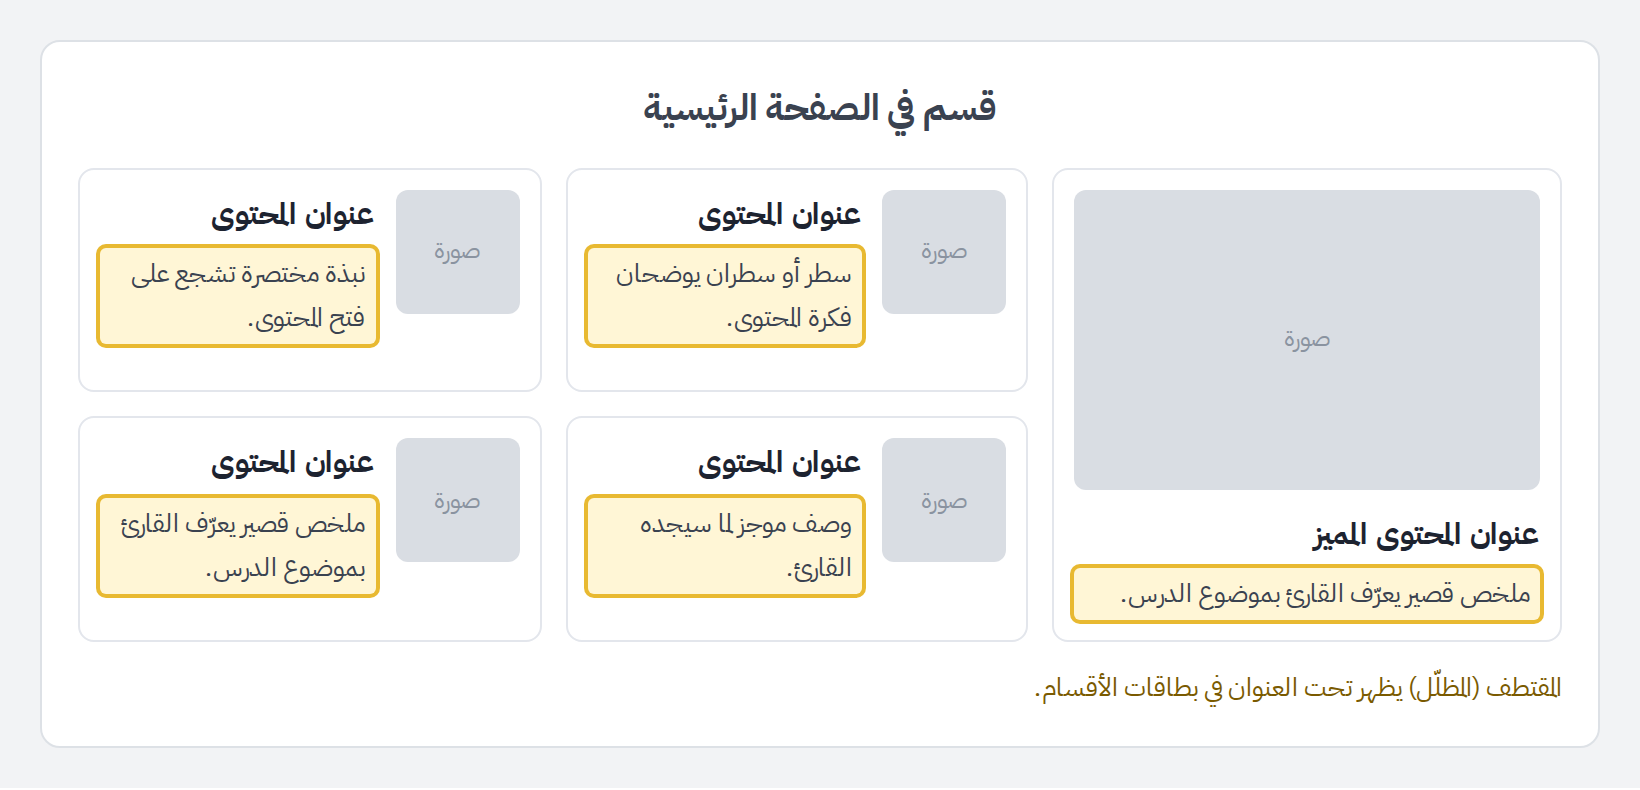
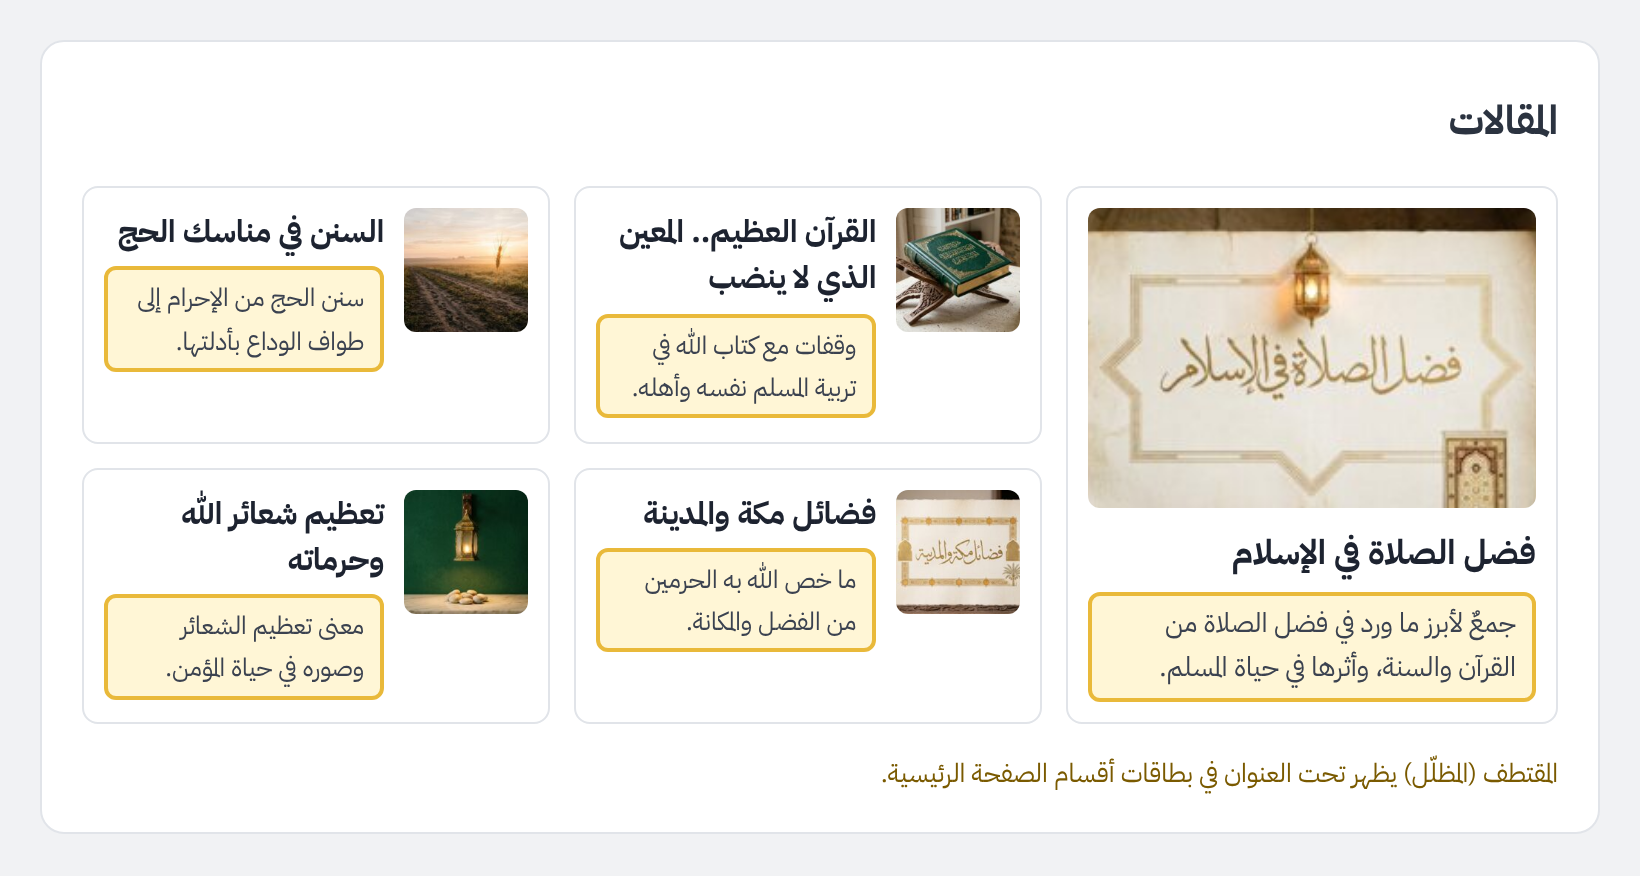
المقتطف guide: realistic examples with real titles and sections
The home, search and list examples now show real content instead of
placeholder explanations: the المقالات section with «فضل الصلاة في الإسلام»
carrying the excerpt typed in the first photo, a search for «الصلاة», and
the الدروس page, with matching thumbnails from the site. The images are
rendered from _tools/excerpt-mock/mock.html (node render.js).

Claude-Session: https://claude.ai/code/session_01Y7SfLjzbY1tcRcLs3jeLK1

diff --git a/_tools/excerpt-mock/mock.html b/_tools/excerpt-mock/mock.html
@@ -1,0 +1,76 @@
+<!DOCTYPE html>
+<html lang="ar" dir="rtl"><head><meta charset="UTF-8">
+<!-- Source of docs/img/excerpt-{home,search,list}.png: render.js screenshots each .panel at 2x -->
+<style>
+@font-face{font-family:Plex;src:url(../../fonts/IBMPlexSansArabic-Regular.ttf);font-weight:400}
+@font-face{font-family:Plex;src:url(../../fonts/IBMPlexSansArabic-SemiBold.ttf);font-weight:600}
+@font-face{font-family:Plex;src:url(../../fonts/IBMPlexSansArabic-Bold.ttf);font-weight:700}
+body{margin:0;background:#f1f2f4;font:15px/1.7 Plex,sans-serif;color:#1d2330}
+.panel{width:820px;box-sizing:border-box;padding:20px}
+.frame{background:#fff;border:1px solid #e1e4e9;border-radius:12px;padding:22px 20px 18px}
+h2{margin:0 0 16px;font-size:20px;font-weight:700;color:#2b3340}
+.home h2{text-align:right}
+.ex{background:#fff6d6;border:2px solid #e9b93a;border-radius:6px;padding:3px 8px;margin-top:6px;font-size:13.5px;color:#3b4250}
+mark{background:#ffd966;color:inherit;padding:0 2px;border-radius:2px}
+.note{margin-top:14px;font-size:13px;color:#7a5a00}
+img{display:block;object-fit:cover;border-radius:6px;background:#d9dce2}
+h3{margin:0;font-size:15.5px;font-weight:700;line-height:1.5}
+.grid{display:grid;grid-template-columns:1.05fr 1fr 1fr;grid-template-rows:auto auto;gap:12px}
+.feat{grid-row:1/3;border:1px solid #e1e4e9;border-radius:8px;padding:10px}
+.feat img{width:100%;height:150px;margin-bottom:10px}
+.feat h3{font-size:17px}
+.sm{border:1px solid #e1e4e9;border-radius:8px;padding:10px;display:flex;gap:10px;align-items:flex-start}
+.sm img{width:62px;height:62px;flex:none}
+.sm .ex{font-size:12.5px}
+.search{display:grid;grid-template-columns:1fr 190px;gap:18px}
+.res{padding:10px 0 12px;border-bottom:1px solid #eceef2}
+.tag{display:inline-block;margin-top:6px;padding:0 8px;border-radius:4px;background:#e8ebf0;font-size:12px;color:#4b5363}
+.filter{border:1px solid #e1e4e9;border-radius:8px;padding:12px 14px;font-size:13.5px;align-self:start}
+.filter b{display:block;margin-bottom:6px;font-size:15px}
+.filter div{margin:3px 0}
+.row{border:1px solid #e1e4e9;border-radius:8px;padding:10px;display:flex;gap:12px;margin-bottom:10px;align-items:flex-start}
+.row img{width:120px;height:68px;flex:none}
+.meta{font-size:12px;color:#6b7383;margin-top:4px}
+</style></head><body>
+
+<div class="panel" id="home"><div class="frame home">
+<h2>المقالات</h2>
+<div class="grid">
+ <div class="feat"><img src="../../assets/62d21933a1-Arabic_calligraphy_______________202607010927-300x167.jpeg">
+  <h3>فضل الصلاة في الإسلام</h3>
+  <div class="ex">جمعٌ لأبرز ما ورد في فضل الصلاة من القرآن والسنة، وأثرها في حياة المسلم.</div></div>
+ <div class="sm"><img src="../../assets/2261298579-A_high-quality_close-up_of_a_202607020937-300x167.jpeg">
+  <div><h3>القرآن العظيم.. المعين الذي لا ينضب</h3><div class="ex">وقفات مع كتاب الله في تربية المسلم نفسه وأهله.</div></div></div>
+ <div class="sm"><img src="../../assets/70924bbf94-Path_leading_to_grain_stalk_202607081038-300x167.jpeg">
+  <div><h3>السنن في مناسك الحج</h3><div class="ex">سنن الحج من الإحرام إلى طواف الوداع بأدلتها.</div></div></div>
+ <div class="sm"><img src="../../assets/b796a821a4-Arabic_calligraphy_spelling______202607010936-300x167.jpeg">
+  <div><h3>فضائل مكة والمدينة</h3><div class="ex">ما خص الله به الحرمين من الفضل والمكانة.</div></div></div>
+ <div class="sm"><img src="../../assets/5ab71c0531-Lantern_casting_light_on_stones_202607051051-300x167.jpeg">
+  <div><h3>تعظيم شعائر الله وحرماته</h3><div class="ex">معنى تعظيم الشعائر وصوره في حياة المؤمن.</div></div></div>
+</div>
+<div class="note">المقتطف (المظلّل) يظهر تحت العنوان في بطاقات أقسام الصفحة الرئيسية.</div>
+</div></div>
+
+<div class="panel" id="search"><div class="frame">
+<h2>نتائج البحث عن: الصلاة</h2>
+<div class="search"><div>
+ <div class="res"><h3>فضل الصلاة في الإسلام</h3><div class="ex">جمعٌ لأبرز ما ورد في فضل <mark>الصلاة</mark> من القرآن والسنة، وأثرها في حياة المسلم.</div><span class="tag">مقالة</span></div>
+ <div class="res"><h3>حُكم الصلاة.. وعِظَم شأنها في دين الإسلام</h3><div class="ex">حكم <mark>الصلاة</mark> وتاركها، ومنزلتها بين أركان الإسلام.</div><span class="tag">مقالة</span></div>
+ <div class="res"><h3>أركان العبادة</h3><div class="ex">المحبة والخوف والرجاء، وكيف تجتمع في <mark>الصلاة</mark> وسائر العبادات.</div><span class="tag">درس</span></div>
+</div>
+<div class="filter"><b>نوع المحتوى</b><div>☐ المقالات</div><div>☐ الدروس</div><div>☐ أسئلة وأجوبة</div><div>☐ الخطب</div><div>☐ الفوائد</div></div>
+</div>
+<div class="note">المقتطف (المظلّل) يظهر تحت عنوان كل نتيجة، مع إبراز كلمة البحث.</div>
+</div></div>
+
+<div class="panel" id="list"><div class="frame">
+<h2>الدروس</h2>
+<div class="row"><img src="../../assets/8826f7dcf0-Crescent_moon_over_calm_horizon_202607051421-300x167.jpeg">
+ <div><h3>نزول القرآن</h3><div class="ex">كيف نزل القرآن منجّمًا على النبي ﷺ، والحكمة من نزوله مفرّقًا.</div></div></div>
+<div class="row"><img src="../../assets/3ccfbdab82-Serene_landscape_with_glowing_lamp_202607071449-300x167.jpeg">
+ <div><h3>أسباب انشراح الصدر</h3><div class="ex">عشرة أسباب من الكتاب والسنة يجد بها المسلم راحة القلب وطمأنينته.</div></div></div>
+<div class="row" style="margin-bottom:0"><img src="../../assets/adb112847a-Arabic_calligraphy_______________202607091735-300x167.jpeg">
+ <div><h3>أعمال القلوب: الإخلاص</h3><div class="ex">معنى الإخلاص، وعلاماته، وما يعين عليه في القول والعمل.</div></div></div>
+<div class="note">المقتطف (المظلّل) يظهر تحت العنوان في كل صف من القائمة.</div>
+</div></div>
+</body></html>

diff --git a/docs/excerpt.html b/docs/excerpt.html
@@ -36,24 +36,24 @@ figcaption{font-size:13px;color:var(--muted);text-align:center;margin-top:6px}
 <p>المقتطف نص اختياري يرتبط بالمقالة، ويُستخدم في أغلب الأحيان <strong>ملخصًا للمقالة</strong>.</p>
 
 <figure>
-<img src="img/excerpt-box.png" width="522" height="171" alt="صندوق المقتطف في صفحة إضافة مقالة، وفيه ملخص مكتوب">
-<figcaption>صندوق المقتطف في صفحة إضافة مقالة</figcaption>
+<img src="img/excerpt-box.png" width="522" height="171" alt="صندوق المقتطف في صفحة إضافة مقالة، وفيه: جمعٌ لأبرز ما ورد في فضل الصلاة من القرآن والسنة، وأثرها في حياة المسلم.">
+<figcaption>صندوق المقتطف في صفحة إضافة مقالة «فضل الصلاة في الإسلام»</figcaption>
 </figure>
 
 <p>بحسب القالب الذي يستخدمه موقعك، يمكن أن تظهر المقتطفات في صفحات مختلفة (الصفحة الرئيسية، ونتائج البحث، وصفحات أنواع المحتوى، وغيرها).</p>
 
 <div class="ex2">
 <figure>
-<img src="img/excerpt-home.png" width="820" height="394" alt="مخطط قسم في الصفحة الرئيسية: بطاقة كبيرة وبطاقات صغيرة، وتحت عنوان كل بطاقة المقتطف">
-<figcaption>مثال: المقتطف في بطاقات أقسام الصفحة الرئيسية</figcaption>
+<img src="img/excerpt-home.png" width="820" height="438" alt="قسم المقالات في الصفحة الرئيسية: بطاقة «فضل الصلاة في الإسلام» وتحت عنوانها نص المقتطف نفسه من الصورة الأولى، وأربع بطاقات أخرى لكل منها مقتطفها">
+<figcaption>مثال: قسم «المقالات» في الصفحة الرئيسية. نص المقتطف الذي كُتب في الصندوق أعلاه يظهر تحت عنوان «فضل الصلاة في الإسلام»</figcaption>
 </figure>
 <figure>
-<img src="img/excerpt-search.png" width="820" height="466" alt="مخطط صفحة نتائج البحث: تحت عنوان كل نتيجة المقتطف مع إبراز كلمة البحث">
-<figcaption>مثال: المقتطف في نتائج البحث</figcaption>
+<img src="img/excerpt-search.png" width="820" height="510" alt="نتائج البحث عن «الصلاة»: تحت عنوان كل نتيجة مقتطفها مع إبراز كلمة البحث">
+<figcaption>مثال: المقتطف في نتائج البحث عن «الصلاة»</figcaption>
 </figure>
 <figure>
-<img src="img/excerpt-list.png" width="820" height="453" alt="مخطط صفحة نوع محتوى: صفوف فيها صورة مصغرة وعنوان، وتحته المقتطف">
-<figcaption>مثال: المقتطف في صفحة قائمة نوع المحتوى</figcaption>
+<img src="img/excerpt-list.png" width="820" height="459" alt="صفحة الدروس: صفوف فيها صورة الدرس وعنوانه، وتحته مقتطفه">
+<figcaption>مثال: المقتطف في صفحة «الدروس»</figcaption>
 </figure>
 <p class="sub" style="margin:0">تختلف أشكال القوالب، لكن مكان المقتطف ثابت: تحت عنوان المحتوى.</p>
 </div>

diff --git a/_tools/excerpt-mock/render.js b/_tools/excerpt-mock/render.js
@@ -1,0 +1,11 @@
+// node render.js — screenshots each panel of mock.html into docs/img (2x)
+const { chromium } = require('playwright');
+const path = require('path');
+(async () => {
+  const b = await chromium.launch({ executablePath: process.env.CHROMIUM || '/opt/pw-browsers/chromium' });
+  const p = await b.newPage({ viewport: { width: 820, height: 800 }, deviceScaleFactor: 2 });
+  await p.goto('file://' + path.join(__dirname, 'mock.html')); await p.waitForTimeout(500);
+  for (const id of ['home', 'search', 'list'])
+    await (await p.$('#' + id)).screenshot({ path: path.join(__dirname, '../../docs/img/excerpt-' + id + '.png') });
+  await b.close();
+})();
